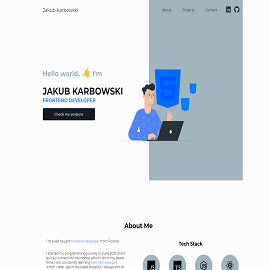
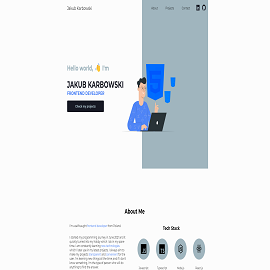
Added footer

diff --git a/components/Info.tsx b/components/Info.tsx
@@ -1,0 +1,72 @@
+"use client";
+import { socialIconsArray } from "@/constants";
+import Link from "next/link";
+import Arrow from "@/public/icons/arrowup.svg";
+import Mail from "@/public/icons/mail.svg";
+
+const Info = () => {
+  return (
+    <section className="bg-section-pattern ">
+      <div className="section_short">
+        <div className="flex flex-col  lg:flex-row lg:justify-around  p-4">
+          <div className="flex  flex-center justify-center flex-col text-center lg:text-start mb-10 lg:mb-0 ">
+            <div>
+              {" "}
+              <h4 className="ternary_text font-bold border-b-2 border-primary-orange inline">Jakub Karbowski</h4>
+            </div>
+            <div>
+              <h5 className="font-bold text- my-5 ">Obserwuj mnie tutaj:</h5>
+              <ul className="flex flex-row justify-center items-center ">
+                {socialIconsArray.map(({ icon: Icon, link }) => (
+                  <li key={Icon} className="mr-4 last:mr-0">
+                    <Link href={link}>
+                      <button className="icons_button z-10">
+                        <Icon
+                          width={30}
+                          height={30}
+                          alt={`Icon ${Icon.name}`}
+                        />
+                      </button>
+                    </Link>
+                  </li>
+                ))}
+              </ul>
+            </div>
+          </div>
+
+          <div className="flex flex-center justify-center flex-col text-center bg-white   ">
+            <Link href="#Strona_główna">
+              <button className="cursor-pointer up_button">
+                <div className="flex flex-center justify-center  ">
+                  <Arrow
+                    alt="Strzałka przewiń w górę"
+                    width={120}
+                    height={120}
+                    style={{ width: 120, height: 120 }}
+                  />
+                </div>
+                <h5 className="ternary_text font-bold ">Przewiń w górę</h5>
+              </button>
+            </Link>
+          </div>
+
+          <div className="flex  flex-center justify-end flex-col text-center lg:text-start mt-5 lg:mt-0 ">
+            <div>
+              <h5 className="font-bold text-ternary my-5 ">
+                Skontaktuj się ze mną
+              </h5>
+              <div>
+                <p className="font-bold text-ternary leading-0">
+                  <Mail className="inline mr-1 w-10 h-10" />
+                  kontakt@jakubkarbowski.pl
+                </p>
+              </div>
+            </div>
+          </div>
+        </div>
+      </div>
+    </section>
+  );
+};
+
+export default Info;

diff --git a/styles/globals.css b/styles/globals.css
@@ -20,6 +20,12 @@
   scroll-margin-top: 60px;
 }
 
+html,
+body,
+#root {
+  scroll-behavior: smooth;
+}
+
 .section {
   @apply max-w-7xl mx-auto sm:px-10 px-6 min-h-screen;
 }
@@ -114,21 +120,28 @@
   @apply tertiary_text font-bold relative z-10 p-5 lg:p-5 after:z-[-1] 
   after:h-full after:w-full after:absolute after:top-[10px] transition-all
  hover:text-white after:duration-150 after:ease-in-out hover:after:top-0 hover:after:left-0
- after:bg-primary-orange after:left-[10px] bg-white border-2 border-black;
+ after:bg-primary-orange after:left-[10px] bg-white border-2 border-black content-[""];
+}
+
+.up_button {
+  @apply tertiary_text font-bold relative z-10  after:z-[-1] w-full h-full lg:h-auto lg:w-auto
+  after:h-full after:w-full after:absolute after:top-[-25px] after:left-[15px] transition-all
+ after:duration-150 after:ease-in-out hover:after:top-0 hover:after:left-0
+ after:bg-transparent after:border-2 after:border-black content-[""];
 }
 
 .portfolio_card {
   @apply tertiary_text font-bold relative z-10 p-5 lg:p-5 after:z-[-1] 
   after:h-full after:w-full after:absolute after:top-[-15px] transition-all
  hover:text-white after:duration-150 after:ease-in-out hover:after:top-0 hover:after:left-0
- after:bg-primary-orange after:left-[10px] bg-white border-2 border-black;
+ after:bg-primary-orange after:left-[10px] bg-white border-2 border-black content-[""];
 }
 
 .icons_button {
   @apply relative p-3  hover:after:w-full  after:z-[-1] 
   after:absolute after:top-0 after:right-0 after:h-full 
   after:w-1/2 after:bg-primary-orange border-2 border-black
-  transition-all  after:duration-150 after:ease-in-out  hover:fill-white;
+  transition-all  after:duration-150 after:ease-in-out  hover:fill-white content-[""];
 }
 
 /*Before*/
@@ -139,4 +152,8 @@
 
 .title_section_decoration {
   @apply before:bg-primary-orange before:w-[45%] before:h-8 sm:before:h-12 xl:before:w-64  xl:before:h-20 before:left-[-30px] content-[""] before:z-[-1]  before:absolute;
+}
+
+.toast-position {
+  top: 6rem !important;
 }

diff --git a/components/About.tsx b/components/About.tsx
@@ -1,6 +1,7 @@
 "use client";
 import Image from "next/image";
-import { iconsArray } from "@/constants";
+import { iconsArray,socialIconsArray } from "@/constants";
+import Link from "next/link";
 
 const About = () => {
   return (
@@ -30,7 +31,7 @@ const About = () => {
             <h3 className="secondary_text mb-5 font-bold ">Poznaj mnie</h3>
             <p className="mt-5 ternary_text">
               Nazywam się{" "}
-              <span className="text-primary-orange">Jakub Karbowski</span>,
+              <span className="text-primary-orange font-bold">Jakub Karbowski</span>,
               swoją przygodę z programowaniem rozpocząłem w czerwcu 2021 roku i
               od tamtej pory stanowi nieodłączną część mojego życia. To
               fascynujące hobby pochłania mnie każdego dnia. Nieustannie
@@ -45,17 +46,19 @@ const About = () => {
               aby zapewnić doskonałą jakość i funkcjonalność.
             </p>
             <div className="flex flex-col lg:flex-row mt-5">
+              <Link href='#Kontakt'>
               <button className="contact_button">Kontakt</button>
-
+              </Link>
               <ul className="flex flex-row justify-center items-center mt-8 lg:mt-0 lg:ml-7">
-                {iconsArray.map((Icon) => (
+                {socialIconsArray.map(({icon:Icon,link}) => (
                   <li key={Icon} className="mx-2">
+                    <Link href={link}>
                     <button
-                      className="icons_button ;
-                    "
+                      className="icons_button"
                     >
                       <Icon width={30} height={30} alt={`Icon ${Icon.name}`} />
                     </button>
+                    </Link>
                   </li>
                 ))}
               </ul>

diff --git a/constants/index.ts b/constants/index.ts
@@ -1,4 +1,4 @@
-import { NavLinks, Icons } from "@/types";
+import { NavLinks } from "@/types";
 import Github from "@/public/icons/github.svg";
 import Linkedin from "@/public/icons/linkedin.svg";
 import Instagram from "@/public/icons/instagram.svg";
@@ -49,12 +49,15 @@ const iconsArrayThree = [Basket, Marketing, App, Responsive, Support, Laptop];
 export const imagesArray = [
   {
     image: "businesses",
+    id: "1",
   },
   {
     image: "cryptoenth",
+    id: "2",
   },
   {
     image: "portfolio",
+    id: "3",
   },
 ];
 
@@ -88,5 +91,19 @@ export const iconsData = [
     title: "Aplikacje",
     text: "Tworzę spersonalizowane aplikacje internetowe.",
     icon: iconsArrayThree[2],
+  },
+];
+export const socialIconsArray = [
+  {
+    link: "https://github.com/karbowskijakub",
+    icon: iconsArray[0],
+  },
+  {
+    link: "https://www.linkedin.com/in/jakub-karbowski-48a254217/",
+    icon: iconsArray[1],
+  },
+  {
+    link: "https://www.instagram.com/kuba_karbowski_/",
+    icon: iconsArray[2],
   },
 ];

diff --git a/components/Portfolio.tsx b/components/Portfolio.tsx
@@ -1,6 +1,8 @@
 "use client";
 import PortfolioItem from "./PortfolioItem";
 import { imagesArray } from "@/constants";
+import Link from "next/link";
+
 const Portfolio = () => {
   return (
     <section id="Portfolio" className="bg-section-pattern ">
@@ -13,13 +15,16 @@ const Portfolio = () => {
         </div>
 
         <div className="flex flex-col lg:flex-row  z-[-10] lg:justify-between items-center w-full min-h-full  lg:my-20">
-          {imagesArray.map((item, index) => (
-            <PortfolioItem key={index} image={item.image} />
+          {imagesArray.map((item) => (
+            <PortfolioItem key={item.id} image={item.image} />
+         
           ))}
         </div>
+        <Link href="https://github.com/karbowskijakub">
         <button className=" z-[-10] w-full mt-10 cursor-pointer  contact_button ">
-          Zobacz resztę prac
+          Zobacz moje prace
         </button>
+        </Link>
       </div>
     </section>
   );

diff --git a/app/layout.tsx b/app/layout.tsx
@@ -1,9 +1,11 @@
 import type { Metadata } from "next";
 import "@/styles/globals.css";
 import Navbar from "@/components/Navbar";
+import "react-toastify/dist/ReactToastify.min.css";
+import { ToastContainer } from "react-toastify";
 
 export const metadata: Metadata = {
-  title: "Jakub Karbowski",
+  title: "Jakub Karbowski - strony internetowe",
   description: "Strony i aplikacje internetowe",
 };
 
@@ -13,11 +15,14 @@ export default function RootLayout({
   children: React.ReactNode;
 }) {
   return (
-    <html lang="zxx">
-      <body className="relative">
-        <Navbar />
-        {children}
-      </body>
-    </html>
+    <>
+      <html lang="zxx">
+        <body className="relative">
+          <Navbar />
+          {children}
+          <ToastContainer className="toast-position" />
+        </body>
+      </html>
+    </>
   );
 }

diff --git a/components/PortfolioItem.tsx b/components/PortfolioItem.tsx
@@ -3,15 +3,16 @@ import Image from "next/image";
 const PortfolioItem = ({ image }: any) => {
   return (
     <>
-      <div className="relative portfolio_card  cursor-pointer p-5 lg:mr-10 lg:last:mr-0 mt-10 lg:mt-0 ">
+      <div className="relative portfolio_card   p-5 lg:mr-10 lg:last:mr-0 mt-10 lg:mt-0 ">
         <div className="bg-transparent hover:bg-black hover:opacity-30  absolute w-full h-full top-0 left-0 "></div>
+
         <Image
           alt={`${image} ikona`}
           src={`/images/${image}.png`}
           width={270}
           height={270}
           priority
-          style={{ width: "100%", height: "auto" }}
+          style={{ width: 270, height: 270 }}
         />
       </div>
     </>

diff --git a/components/Form.tsx b/components/Form.tsx
@@ -1,8 +1,10 @@
 "use client";
 
 import { useState } from "react";
+import { toast } from 'react-toastify';
 
 export default function ContactForm() {
+	const notify = () => toast.success("Wiadomość wysłana pomyślnie.");
   const [loading, setLoading] = useState(false);
 
   async function handleSubmit(event: any) {
@@ -27,6 +29,7 @@ export default function ContactForm() {
       if (response.ok) {
         console.log("Message sent successfully");
         setLoading(false);
+notify()
         // reset the form
         event.target.name.value = "";
         event.target.email.value = "";

diff --git a/app/page.tsx b/app/page.tsx
@@ -4,6 +4,8 @@ import Technology from "@/components/Technology";
 import Services from "@/components/Services";
 import Portfolio from "@/components/Portfolio";
 import Contact from "@/components/Contact";
+import Info from "@/components/Info";
+import Footer from "@/components/Footer";
 
 export default function Home() {
   return (
@@ -14,6 +16,8 @@ export default function Home() {
       <Services />
       <Portfolio />
       <Contact />
+      <Info />
+      <Footer />
     </main>
   );
 }

diff --git a/components/Services.tsx b/components/Services.tsx
@@ -1,6 +1,7 @@
 "use client";
 import ServiceItem from "./ServiceItem";
 import { iconsData } from "@/constants";
+import Link from "next/link";
 
 const Services = () => {
   return (
@@ -22,9 +23,11 @@ const Services = () => {
             />
           ))}
         </div>
+        <Link href="#Kontakt">
         <button className="contact_button  w-full lg:w-fit ">
           Skontaktuj się ze mną
         </button>
+        </Link>
       </div>
     </section>
   );

diff --git a/components/Navbar.tsx b/components/Navbar.tsx
@@ -49,7 +49,12 @@ const Navbar = () => {
         }`}
       >
         <nav className="nav tertiary_text">
-          <Link className="font-bold p-3 pl-0" href="/">
+          <Link
+            className="font-bold p-3 pl-0 text-transparent bg-clip-text bg-gradient-to-r from-primary-orange  to-black
+          
+          "
+            href="/"
+          >
             Jakub Karbowski
           </Link>
           <div>

diff --git a/components/Footer.tsx b/components/Footer.tsx
@@ -1,0 +1,14 @@
+
+const Footer = () => {
+  return (
+    <section className="bg-primary-orange ">
+      <div className="p-8 ">
+<div className='flex flex-center justify-center'>
+        <p className="ternary_text font-bold text-white text-center">Copyright &copy; 2023, Jakub Karbowski. All Rights Reserved</p>
+        </div>
+      </div>
+    </section>
+  )
+}
+
+export default Footer
